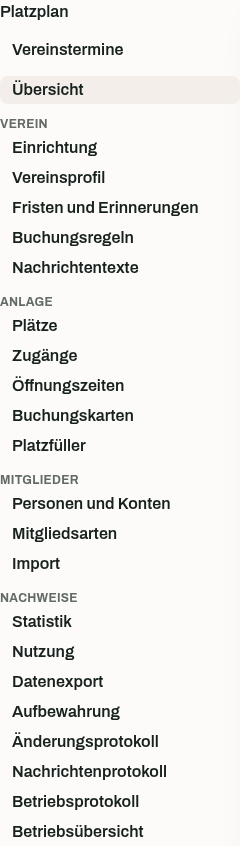
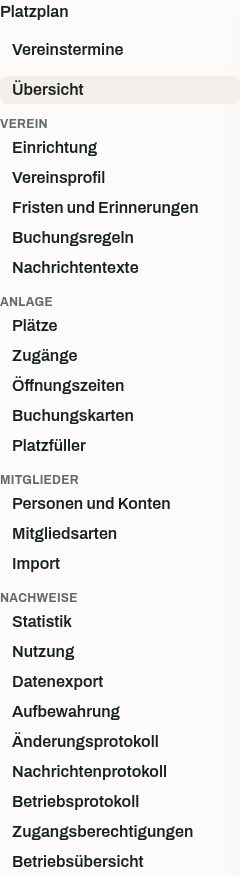
docs: capture the access grants view for the board guide
Claude-Session: https://claude.ai/code/session_01U5R8VN5KaYytjHHBq6QF5H

diff --git a/frontend/e2e/guide-screenshots.spec.ts b/frontend/e2e/guide-screenshots.spec.ts
@@ -281,6 +281,11 @@ const drivers: Record<string, (page: Page, visualDate: string) => Promise<void>>
     await expect(page.getByTestId("operator-check-mail"), "the example, not the live instance, is drawn").toHaveAttribute("data-state", "FAILING");
     await expect(page.getByTestId("operator-health-refresh")).toBeEnabled();
   },
+  "access-grants": async (page) => {
+    await page.context().route("**/api/admin/access-grants", (route) => route.fulfill({ json: accessGrantsExample }));
+    await page.getByTestId("admin-access-grants-link").click();
+    await expect(page.getByTestId("access-grant-example-failing"), "the example, not the live instance, is drawn").toHaveAttribute("data-status", "FAILING");
+  },
   "retention": async (page) => {
     await page.getByTestId("admin-retention-link").click();
     for (const [category, months] of [["BOOKINGS", "24"], ["FORMER_MEMBERS", "12"]]) {
@@ -301,6 +306,28 @@ const operatorHealthExample = {
   mail: { state: "FAILING", reason: "HANDOVER_FAILING", lastHandedOverAt: "2026-10-17T07:00:00Z", location: "relay.example.org:587" },
   publicOrigin: { state: "OK", reason: null, origin: "https://courts.example.org" },
   backup: { state: "UNAVAILABLE", reason: "NOT_CONFIGURED", completedAt: null, ageSeconds: null, location: null }
+};
+
+// A failing grant beside an installed one, because the simulated access-control system never fails.
+const accessGrantsExample = {
+  connector: "simulated", connected: true, total: 2,
+  probe: { reachable: true, outcome: "ANSWERED", detail: "", checkedAt: "2026-05-14T08:00:00Z" },
+  grants: [
+    {
+      id: "00000000-0000-4000-8000-000000000001", bookingId: "example-failing", status: "FAILING",
+      validFrom: "2026-05-14T15:45:00Z", validUntil: "2026-05-14T17:45:00Z",
+      startsAt: "2026-05-14T16:00:00Z", endsAt: "2026-05-14T17:30:00Z",
+      courts: [{ number: 3, name: "Court 3" }], accessPoints: ["North gate"],
+      attempts: 5, lastFailure: "The keypad holds no free user slot", nextAttemptAt: null
+    },
+    {
+      id: "00000000-0000-4000-8000-000000000002", bookingId: "example-installed", status: "INSTALLED",
+      validFrom: "2026-05-15T08:45:00Z", validUntil: "2026-05-15T10:15:00Z",
+      startsAt: "2026-05-15T09:00:00Z", endsAt: "2026-05-15T10:00:00Z",
+      courts: [{ number: 1, name: "Court 1" }, { number: 2, name: "Court 2" }], accessPoints: ["North gate", "South gate"],
+      attempts: 0, lastFailure: null, nextAttemptAt: null
+    }
+  ]
 };
 
 test("the court plan every visitor sees is captured", async ({ page, journeyService }, info) => {
@@ -468,6 +495,16 @@ test("the overview a board reads the instance's own health from is captured", as
 
   // when / then
   await capture(page, "operator-health", journeyService.visualDate);
+});
+
+test("the grants an access-control system holds per booking are captured", async ({ page, journeyService }, info) => {
+  // given
+  await prepare(page, localeOf(info));
+  await signIn(page, "configuration-admin", "court-plan-view");
+  await page.getByTestId("administration-link").click();
+
+  // when / then
+  await capture(page, "access-grants", journeyService.visualDate);
 });
 
 test("the periods a board keeps personal records for are captured", async ({ page, journeyService }, info) => {

diff --git a/frontend/e2e/global-setup.ts b/frontend/e2e/global-setup.ts
@@ -747,6 +747,7 @@ export async function startJourneyService(): Promise<StartedJourneyService> {
       COURTSIDE_SESSION_CLEANUP_CRON: JOURNEY_SESSION_CLEANUP_CRON,
       LOGGING_LEVEL_ORG_HIBERNATE_ORM_JDBC_ERROR: "ERROR",
       COURTSIDE_ENVIRONMENT: "DEVELOPMENT",
+      COURTSIDE_ACCESS_CONTROL_CONNECTOR: "simulated",
       COURTSIDE_PUBLIC_URL: "https://courtside.test",
       COURTSIDE_CLOCK_FIXED_INSTANT: journeyInstant,
       COURTSIDE_COOKIE_SECURE: "false",

diff --git a/site/board-guide.md b/site/board-guide.md
@@ -544,7 +544,7 @@ aktivieren und Mitgliedsrollen neu vergeben.
 
 ## Nachweise
 
-Unter **Nachweise** findest du acht Ansichten. Die *Aufbewahrung* beschreibt der nächste Abschnitt.
+Unter **Nachweise** findest du neun Ansichten. Die *Aufbewahrung* beschreibt der nächste Abschnitt.
 
 * **Statistik** zeigt beim Öffnen den letzten vollen Monat. Oben wählst du einen anderen Zeitraum:
   7 Tage, 1, 3, 6 oder 12 Monate bis heute, alles seit der ersten Buchung, das letzte Kalenderjahr
@@ -608,6 +608,22 @@ Unter **Nachweise** findest du acht Ansichten. Die *Aufbewahrung* beschreibt der
   richtet der Betrieb in seinem eigenen Monitoring ein.
 
 ![Die Betriebsübersicht mit einem Punkt in Ordnung, einem gestörten mit seinem Mailserver und einer nicht belegten Sicherung.](screenshots/de/operator-health.png)
+
+* **Zugangsberechtigungen** zeigt, welche Codes ein angebundenes Zutrittssystem pro Buchung hält.
+  Jede Buchung, deren Karte Zugang gewährt, erhält dort einen eigenen Code für die Zugänge ihrer
+  Plätze. Ein Zugang mit festem Code bekommt keine Einzelcodes je Buchung: Für ihn gilt weiter nur
+  sein fester Code. Courtside richtet den Code ein, sobald die Buchung so nah ist, wie Mitglieder im
+  Voraus buchen dürfen. Weiter entfernte Termine einer Serie folgen später. Eine Berechtigung
+  *Wartet*, ist *Eingerichtet*, *Wird entfernt* oder ist *Gescheitert*. Gescheiterte stehen oben, mit
+  der letzten Antwort des Zutrittssystems. Courtside versucht es nach einer, fünf, fünfzehn und
+  sechzig Minuten erneut. Nach dem fünften Fehlschlag oder einer Ablehnung gilt die Berechtigung als
+  gescheitert. Behebe dann die Ursache im Zutrittssystem und drücke **Erneut senden**. Ein Entfernen
+  versucht Courtside ohne Ende weiter. Über der Liste steht, was das Zutrittssystem bei der letzten
+  Prüfung geantwortet hat. **Jetzt prüfen** lässt Courtside beim nächsten Durchgang neu nachfragen.
+  Den Code selbst zeigt die Ansicht nie. Ohne angebundenes Zutrittssystem bleibt die Liste leer und
+  die Buchungen laufen wie bisher.
+
+![Die Zugangsberechtigungen mit einer gescheiterten Berechtigung, ihrem Grund und Erneut senden, und einer eingerichteten.](screenshots/de/access-grants.png)
 
 ![Die Statistik mit Zeitraumwahl, Kennzahlen zur Auslastung und ihrer Veränderung.](screenshots/de/utilisation.png)
 

diff --git a/site/en/board-guide.md b/site/en/board-guide.md
@@ -518,7 +518,7 @@ roles again.
 
 ## Records
 
-The **Records** area has eight views. The next section describes *Retention*.
+The **Records** area has nine views. The next section describes *Retention*.
 
 * **Statistics** opens on the last full month. At the top you choose another period: 7 days, 1, 3,
   6 or 12 months up to today, everything since the first booking, the previous calendar year or two
@@ -575,6 +575,21 @@ The **Records** area has eight views. The next section describes *Retention*.
   about a backup that is too old belongs in the operator's own monitoring.
 
 ![Operator health with healthy checks, a failing one naming its mail server and a backup without evidence.](../screenshots/en/operator-health.png)
+
+* **Access grants** shows which codes a connected access-control system holds per booking. Every
+  booking whose card grants access receives its own code there for the access points of its courts.
+  An access point with a static code gets no code per booking: only its static code opens it.
+  Courtside installs the code once the booking is as close as members may book ahead. More distant
+  dates of a series follow later. A grant is *Waiting*, *Installed*, *Being removed* or *Failing*.
+  Failing ones come first, with the access-control system's last answer. Courtside tries again after
+  one, five, fifteen and sixty minutes. After the fifth failure or a refusal the grant is failing.
+  Fix the cause in the access-control system and press **Send again**. Courtside keeps trying a
+  removal without end. Above the list you see what the access-control system answered when it was
+  last checked. **Check now** makes Courtside ask again in its next pass. The view never shows the
+  code itself. Without a connected access-control system the list stays empty and bookings work as
+  before.
+
+![Access grants with a failing grant, its reason and Send again, and an installed one.](../screenshots/en/access-grants.png)
 
 ![Statistics with the period choice and the utilisation key figures with their change.](../screenshots/en/utilisation.png)
 
